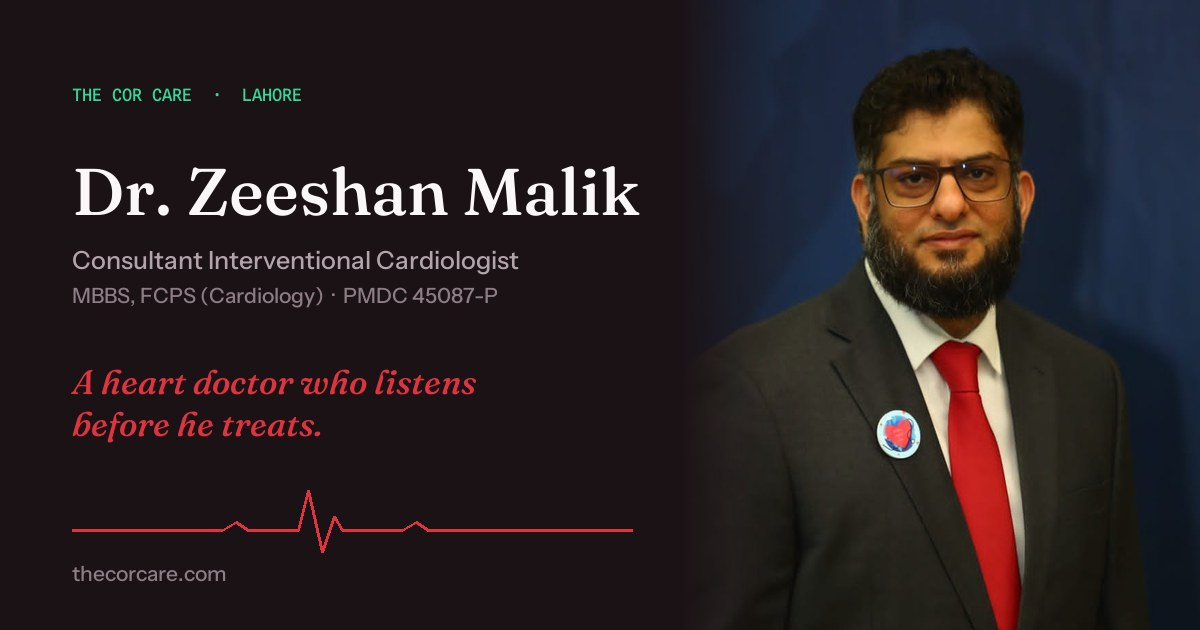
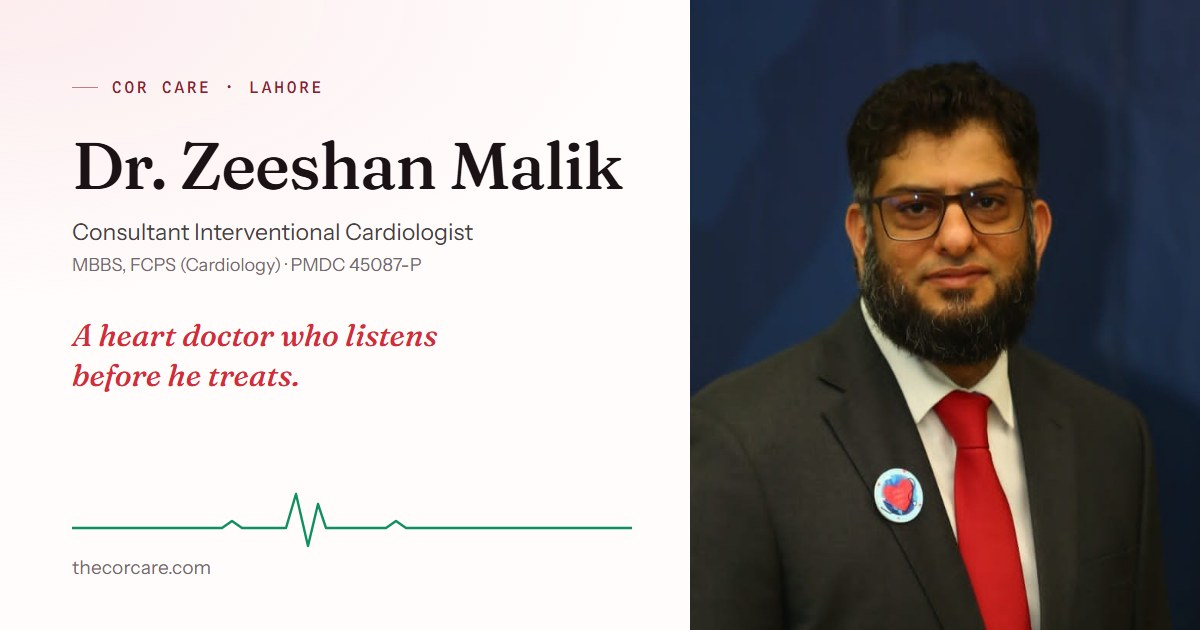
Brand rename: "The Cor Care" -> "Cor Care"
Per the 10 Oct logo kit (wordmark reads COR CARE). Drops clinic.brandThe and
the small "THE" line above the logo wordmark; hard-coded strings, titles,
manifests and READMEs updated. Unchanged on purpose: the .pk dev auth
emails, the pk.thecorcare.app Android id, the thecorcare.com domain, applied
migrations and dated records.

Claude-Session: https://claude.ai/code/session_011iFCaBVsS2Ax7wRBU8BBkP

Website: new light share card (opengraph/twitter) in the site palette with
the logo's green heartbeat line.

diff --git a/src/app/layout.tsx b/src/app/layout.tsx
@@ -27,9 +27,9 @@ const urdu = Noto_Nastaliq_Urdu({
   variable: '--font-urdu',
 });
 
-const siteTitle = 'The Cor Care — Consultant Cardiologist in Lahore | Dr. Zeeshan Malik';
+const siteTitle = 'Cor Care — Consultant Cardiologist in Lahore | Dr. Zeeshan Malik';
 const siteDescription =
-  "The Cor Care — a consultant cardiologist's private practice in Lahore, Pakistan. Honest, unhurried heart care. Book online, check your heart age, live clinic queue, ECG & Echo on-site.";
+  "Cor Care — a consultant cardiologist's private practice in Lahore, Pakistan. Honest, unhurried heart care. Book online, check your heart age, live clinic queue, ECG & Echo on-site.";
 
 export const metadata: Metadata = {
   metadataBase: new URL(clinic.siteUrl),
@@ -51,7 +51,7 @@ export const metadata: Metadata = {
   openGraph: {
     type: 'website',
     url: '/',
-    siteName: `${clinic.brandThe} ${clinic.brandName}`,
+    siteName: `${clinic.brandName}`,
     locale: 'en_PK',
     title: siteTitle,
     description: siteDescription,

diff --git a/src/components/Assistant.tsx b/src/components/Assistant.tsx
@@ -104,13 +104,13 @@ export function Assistant() {
         <svg className="ic" viewBox="0 0 24 24" style={{ stroke: '#fff' }}>
           <path d="M4 6.5A2.5 2.5 0 0 1 6.5 4h11A2.5 2.5 0 0 1 20 6.5v7a2.5 2.5 0 0 1-2.5 2.5H13l-4 4v-4H6.5A2.5 2.5 0 0 1 4 13.5v-7z" />
         </svg>
-        Ask {clinic.brandThe} {clinic.brandName}
+        Ask {clinic.brandName}
       </button>
       <div className={`ai-panel${open ? ' open' : ''}`}>
         <div className="ai-head">
           <div>
             <b>
-              {clinic.brandThe} {clinic.brandName} Assistant
+              {clinic.brandName} Assistant
             </b>
             <span>AI health guide — not a doctor</span>
           </div>

diff --git a/src/app/globals.css b/src/app/globals.css
@@ -62,7 +62,6 @@ section { padding: 110px 0; }
 .logo { display: flex; align-items: center; gap: 10px; text-decoration: none; }
 .logo svg { width: 30px; height: 30px; }
 .logo .word { font-family: var(--font-serif), serif; font-weight: 600; font-size: 19px; letter-spacing: -0.02em; line-height: 1; white-space: nowrap; }
-.logo .word small { display: block; font-family: var(--font-mono), monospace; font-weight: 500; font-size: 8.5px; letter-spacing: 0.34em; text-transform: uppercase; opacity: 0.55; margin-bottom: 2px; }
 
 /* ------- emergency strip ------- */
 .strip { background: var(--blush); color: var(--oxblood); border-bottom: 1px solid var(--line); font-size: 13px; padding: 9px 0; }

diff --git a/src/app/api/assistant/route.ts b/src/app/api/assistant/route.ts
@@ -9,7 +9,7 @@ const MODEL = 'openai/gpt-oss-120b';
 const MAX_HISTORY = 12;
 const MAX_MESSAGE_CHARS = 1000;
 
-const SYSTEM_PROMPT = `You are the website assistant for ${clinic.brandThe} ${clinic.brandName}, the private cardiology practice of ${clinic.doctorName} (${clinic.doctorCreds}, PMDC No. ${clinic.pmdcNumber}) in ${clinic.city}, Pakistan.
+const SYSTEM_PROMPT = `You are the website assistant for ${clinic.brandName}, the private cardiology practice of ${clinic.doctorName} (${clinic.doctorCreds}, PMDC No. ${clinic.pmdcNumber}) in ${clinic.city}, Pakistan.
 
 Clinic facts you may share:
 - Address: ${clinic.address}. Clinic hours: Mon–Sat, 2–9 pm. Phone: ${clinic.phone}.

diff --git a/src/components/Logo.tsx b/src/components/Logo.tsx
@@ -2,7 +2,7 @@ import { clinic } from '@/lib/config';
 
 export function Logo() {
   return (
-    <a className="logo" href="#" aria-label={`${clinic.brandThe} ${clinic.brandName}`}>
+    <a className="logo" href="#" aria-label={clinic.brandName}>
       <svg viewBox="0 0 32 32" fill="none">
         <path
           d="M3 19h6.5l2.5-7 4.5 12 3.5-9 2 4H29"
@@ -13,7 +13,6 @@ export function Logo() {
         />
       </svg>
       <span className="word">
-        <small>{clinic.brandThe}</small>
         {clinic.brandName}
       </span>
     </a>

diff --git a/src/components/Hero.tsx b/src/components/Hero.tsx
@@ -89,7 +89,7 @@ export function Hero() {
           <div className="monitor">
             <div className="monitor-top">
               <span>
-                {clinic.brandThe} {clinic.brandName} · Clinic
+                {clinic.brandName} · Clinic
               </span>
               <span className="mon-strip" aria-hidden="true">
                 <svg viewBox="0 0 120 19" preserveAspectRatio="none">

diff --git a/src/lib/schema.ts b/src/lib/schema.ts
@@ -5,7 +5,7 @@ import { FAQS } from '@/lib/faqs';
 // schema.org JSON-LD for search engines and AI answer engines (SEO/GEO).
 // Rendered as a <script type="application/ld+json"> on the homepage.
 
-const brandFull = `${clinic.brandThe} ${clinic.brandName}`;
+const brandFull = `${clinic.brandName}`;
 const clinicId = `${clinic.siteUrl}/#clinic`;
 const physicianId = `${clinic.siteUrl}/#physician`;
 

diff --git a/src/components/AppTeaser.tsx b/src/components/AppTeaser.tsx
@@ -7,7 +7,7 @@ export function AppTeaser() {
       <Reveal seq className="wrap">
         <div>
           <h3>
-            Your heart, in your pocket — {clinic.brandThe} {clinic.brandName} app
+            Your heart, in your pocket — {clinic.brandName} app
           </h3>
           <p>
             Appointments, reports, medicine reminders, live queue tracking — and an SOS button

diff --git a/src/components/SiteFooter.tsx b/src/components/SiteFooter.tsx
@@ -52,7 +52,7 @@ export function SiteFooter() {
         </div>
         <div className="fbottom">
           <span>
-            © 2026 {clinic.brandThe} {clinic.brandName}. All rights reserved.
+            © 2026 {clinic.brandName}. All rights reserved.
           </span>
           <span>Built by Jabran &amp; Co</span>
         </div>

diff --git a/src/lib/config.ts b/src/lib/config.ts
@@ -4,7 +4,6 @@ export const clinic = {
   // Canonical origin for metadata, sitemap, robots, and JSON-LD.
   // Live on thecorcare.com since Sep 2026; the apex 308s to www, so www is canonical.
   siteUrl: 'https://www.thecorcare.com',
-  brandThe: 'The',
   brandName: 'Cor Care',
   city: 'Lahore',
   doctorName: 'Dr. Zeeshan Malik',
